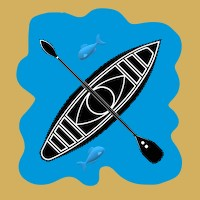
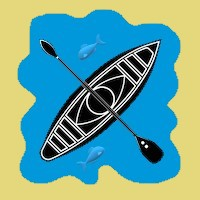
teste06

diff --git a/wwr/estilos/rafting.css b/wwr/estilos/rafting.css
@@ -50,13 +50,14 @@ header nav ul li a {
     padding: 8px 16px;
     border: 1px solid #000;
     text-decoration: none;
-    color: var(--texto-escuro) background-color: #fff;
+    color: var(--texto-escuro);
+    background-color: #fff;
     cursor: pointer;
     transition: all 0.3s ease;
 }
 
 header nav ul li a:hover {
-    color: var(--cor-primaria);
+    color: var(--cor-secundaria);
     text-decoration: underline;
     transform: scale(1.05);
     transition: all 0.3s ease;
